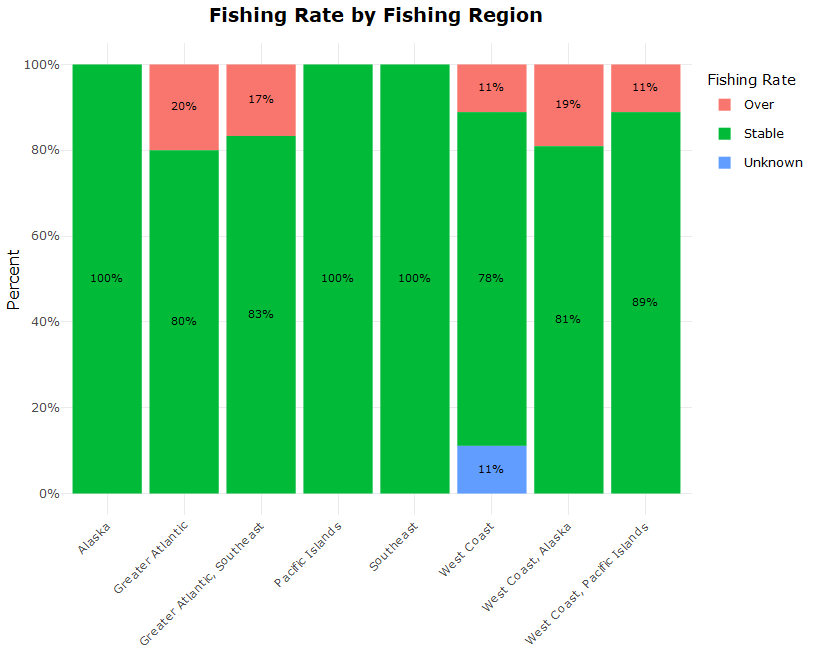
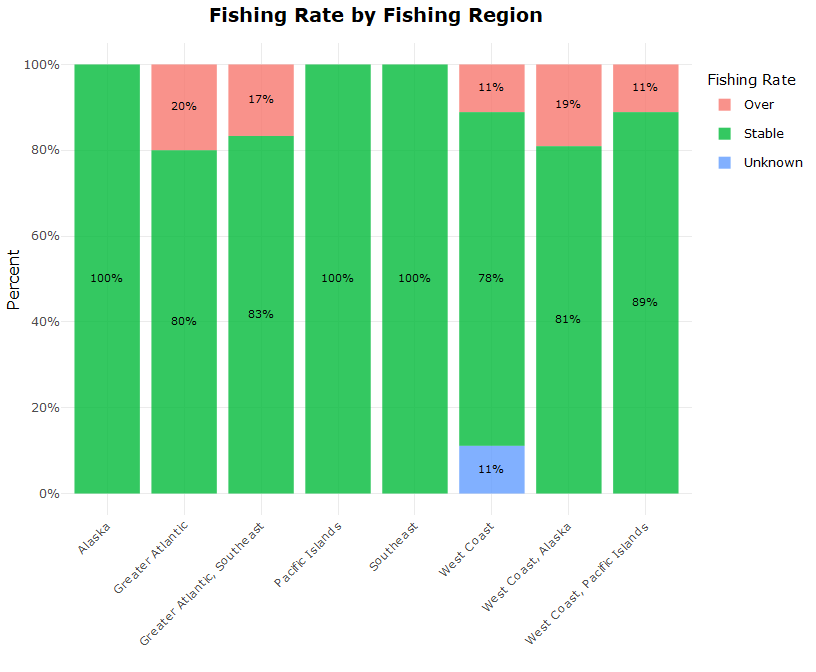
update Rmd files

diff --git a/Fisheries/Fisheries.md b/Fisheries/Fisheries.md
@@ -276,6 +276,7 @@ fig1<-fish.df%>%
         legend.position = "none")+
   scale_y_continuous(expand = c(0, 0))+
   coord_flip() +
+  geom_col(alpha = 0.8, width = 0.85) +
   labs(title = "Distribution of fish species within \nNOAA fisheries regions",
        x="Region",
        y="Number of Species")
@@ -329,6 +330,7 @@ fig2<-plotdata%>%
   scale_y_continuous(breaks = seq(0, 1, .2),label = percent)+
   geom_text(aes(label = lbl), size = 3, 
             position = position_stack(vjust = 0.5))+
+  geom_col(alpha = 0.8, width = 0.85) +
   labs(title = "Fishing Rate by Fishing Region",
        x="",
        y="Percent")
@@ -618,4 +620,24 @@ seafood and data on beef, pork, and poultry.
 
 The goal is to have comparable values. I selected fruits and vegetables
 with the highest calories. This will be the same with the fish species
-selected.
+selected. There is substantial cleaning, re-arranging, renaming and
+binding dataframes. thankfully, dplyr and tidyverse have all the tools
+for this.
+
+``` r
+#cleaned and merged dataframe
+head(nutrition,5)
+```
+
+    ##                     food               serving calories fat_g sodium_g carb_g
+    ## 1        Pacific Sardine                   100      217 12.37      918      0
+    ## 2 Atlantic Chub Mackerel                   100      205 13.89       90      0
+    ## 3      Atlantic Mackerel                   100      205 13.89       90      0
+    ## 4              Sablefish                   100      195 15.30       56      0
+    ## 5                  Apple  1 large (242 g/8 oz)      130  0.00        0     34
+    ##   fiber_g sugar_g protein_g selenium_mcg
+    ## 1       0       0     24.58         52.6
+    ## 2       0       0     18.60         44.1
+    ## 3       0       0     18.60         44.1
+    ## 4       0       0     13.41         36.5
+    ## 5       5      25      1.00           NA
